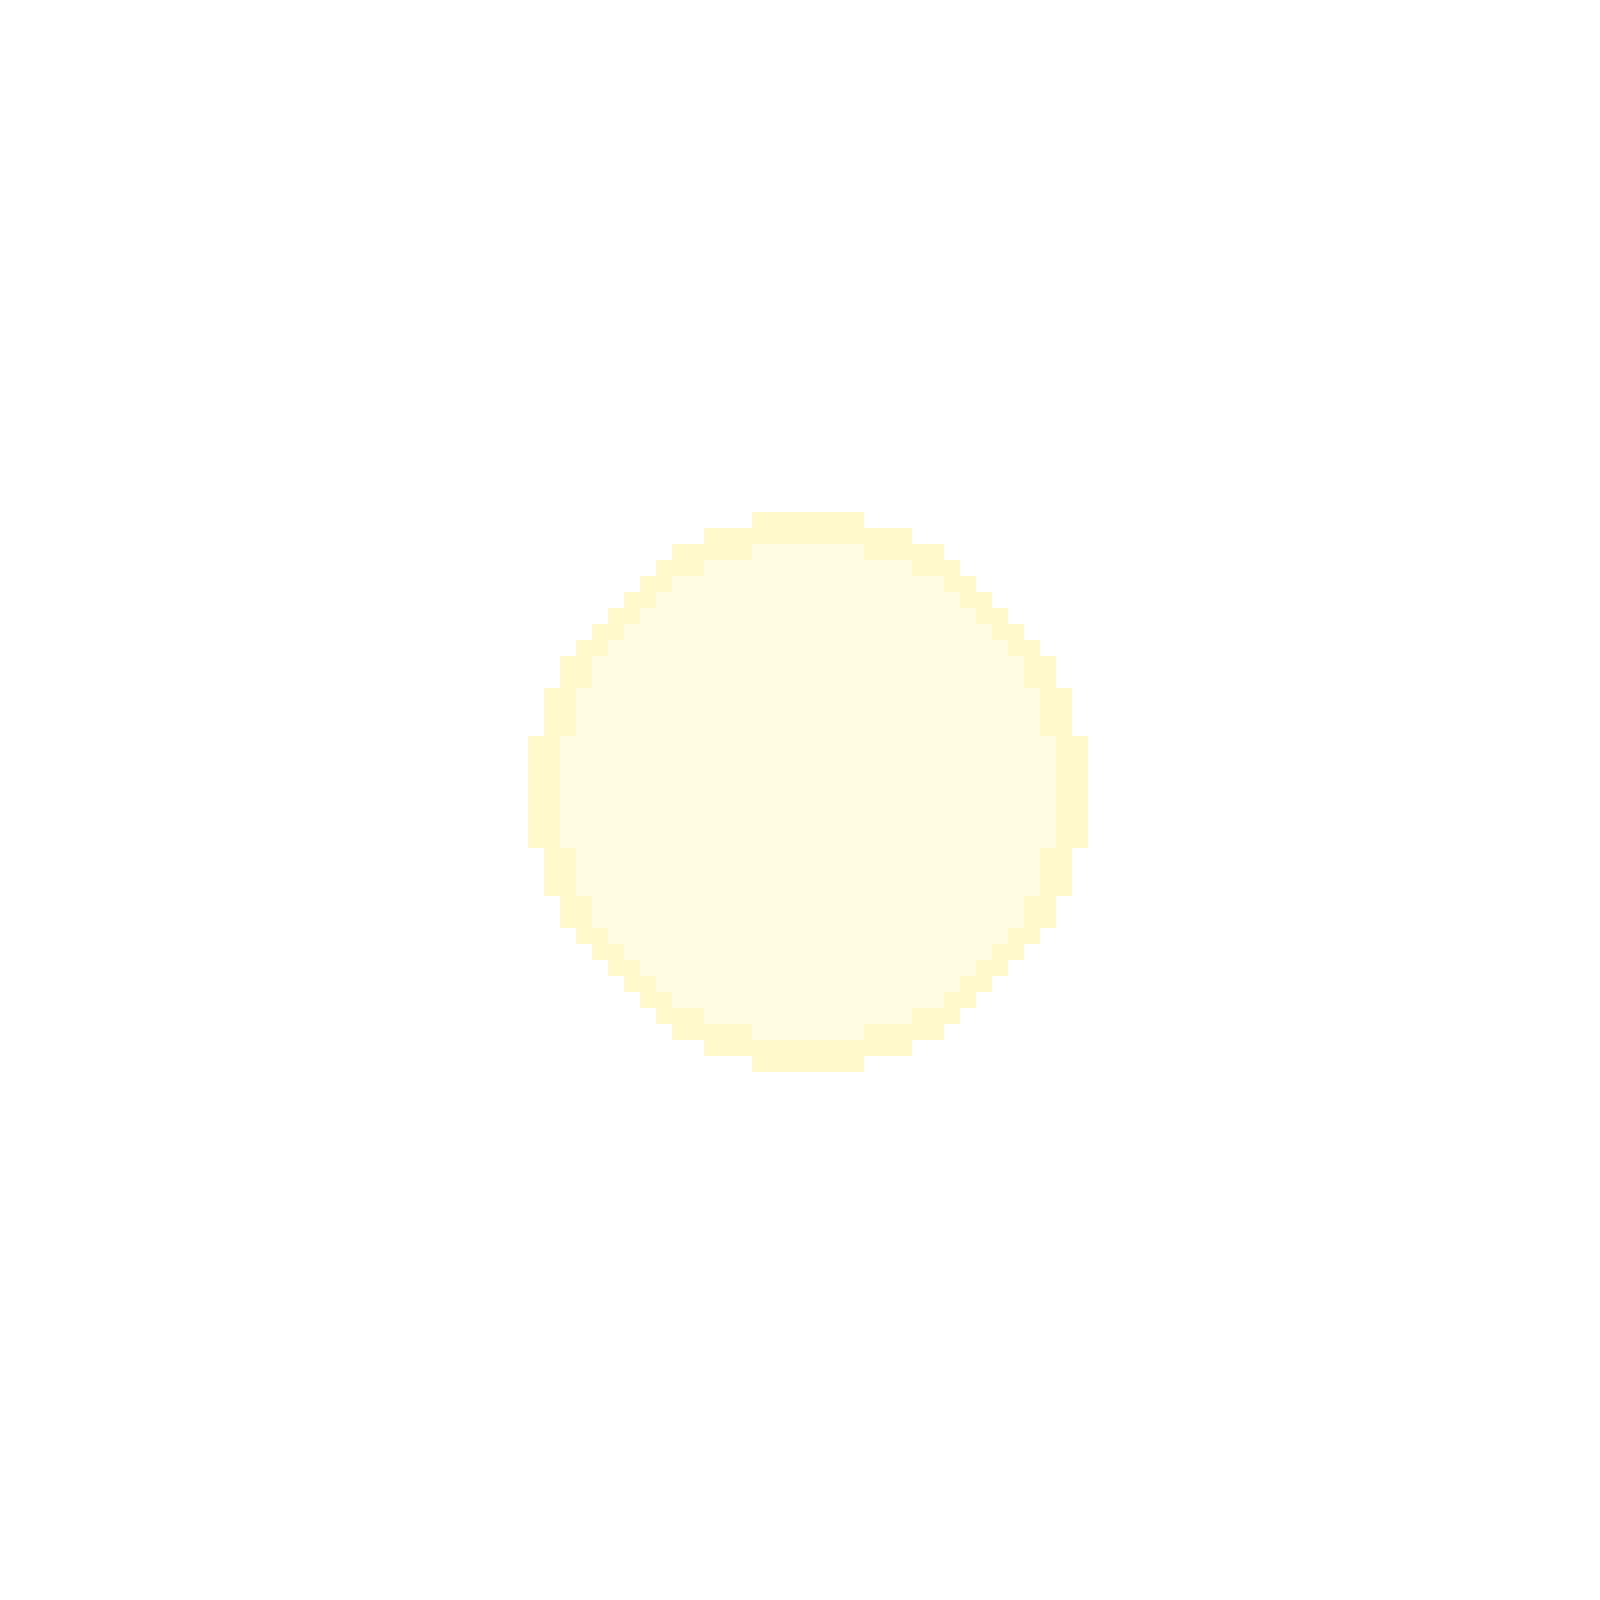
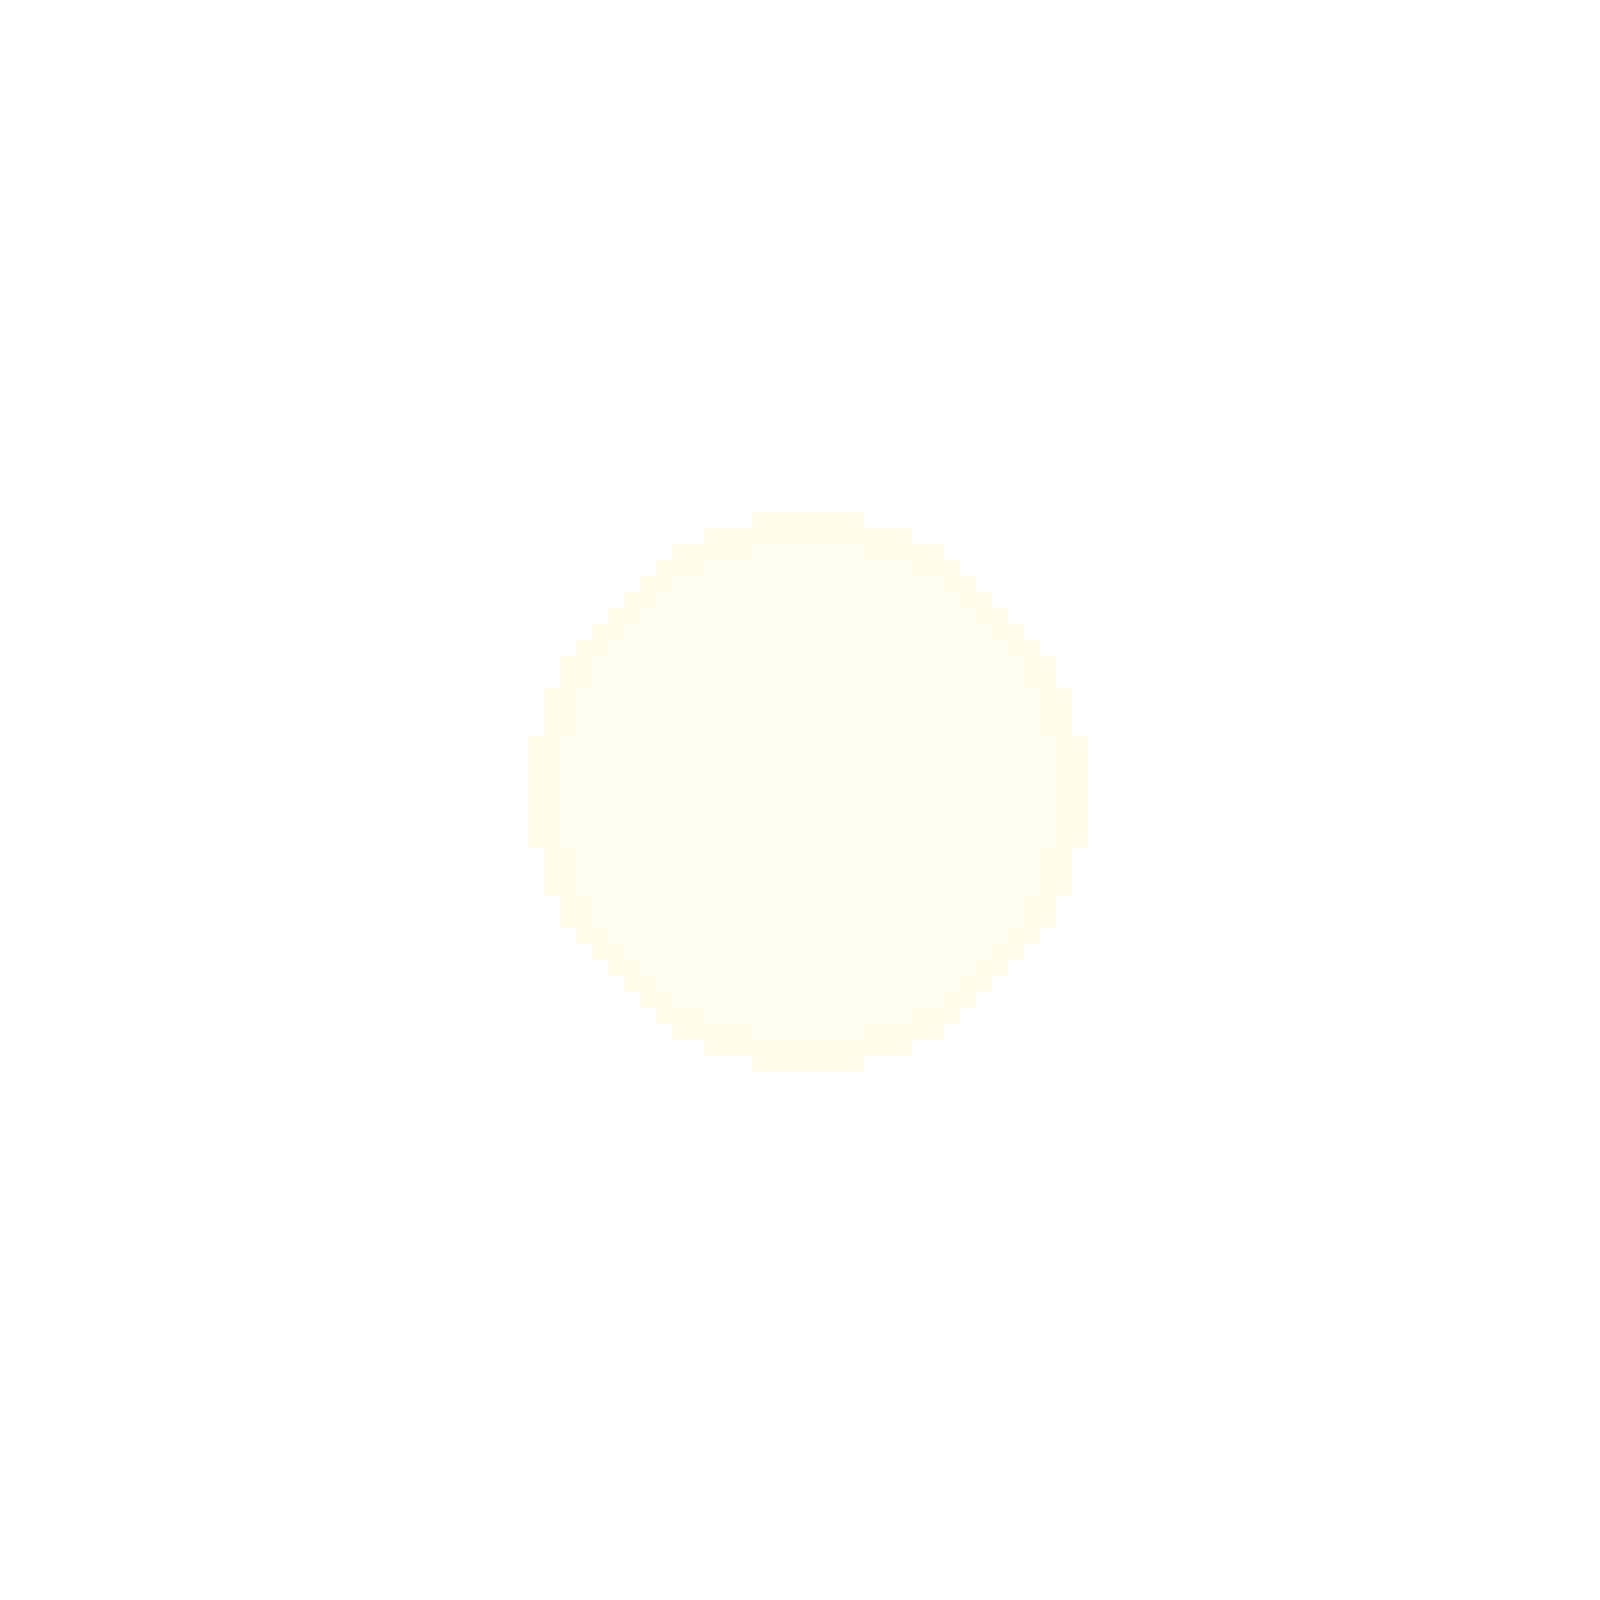
fiddled around with transparency

Changed region(s): [[0.3125, 0.3125, 0.6875, 0.6875]]

diff --git a/companion.py b/companion.py
@@ -24,7 +24,7 @@ from affects.honk_glow import HonkGlowBehavior
 
 running = True
 SCALE = 0.15  
-
+clear_surface = pygame.Surface((400, 400), pygame.SRCALPHA)
 
 # ===============================
 # LOAD FRAMES
@@ -144,7 +144,7 @@ def companion():
     clock = pygame.time.Clock()
     while running:
 
-        dt = clock.tick(60) / 1000
+        dt = clock.tick(36) / 1000
         
         for event in pygame.event.get():
             if event.type == pygame.QUIT:
@@ -155,14 +155,12 @@ def companion():
         win32gui.SetWindowPos(
             hwnd, win32con.HWND_TOPMOST, x, y-200, 0, 0, win32con.SWP_NOSIZE
         )
-
-        screen.fill((0, 0, 0))
+        screen.fill((0, 0, 0, 0))  # RGBA with alpha=0
         moth.update(dt, screen)
 
 
         pygame.display.update()
 
-        clock.tick(60)
 
     pygame.quit()
 

diff --git a/moth/controller.py b/moth/controller.py
@@ -1,6 +1,7 @@
 from moth.sprite import PixelSprite
 import win32gui, win32con, win32api
 import math
+import pygame
 
 class MothController:
     def __init__(self, moth, frame_index = 0, frame_speed = 0.22):
@@ -37,7 +38,6 @@ class MothController:
             for s in self.secondary_particles:
                 drift_x = s["base_x"] + math.sin(s["wave_offset"]) * s["amplitude"]
                 frame_img = self.current_affect.frames[int(s["frame"])].copy()
-                frame_img.set_alpha(s["alpha"])
                 screen.blit(frame_img, (drift_x, s["y"]))
         if self.current:
 

diff --git a/moth/sprite.py b/moth/sprite.py
@@ -18,6 +18,16 @@ class PixelSprite:
         if self.frame:
             screen.blit(self.frame, (self.x, self.y))
 
+    def fade_surface(self, sprite, alpha):
+        faded = sprite.copy()
+
+        # Directly scale alpha channel
+        arr = pygame.surfarray.pixels_alpha(faded)
+        arr[:] = alpha
+        del arr  # unlock the surface
+
+        return faded
+    
     def is_click_inside(self):
         """Pixel-perfect click detection."""
         if not self.frame or not self.mask:

diff --git a/affects/sleep_z.py b/affects/sleep_z.py
@@ -9,7 +9,7 @@ class SleepZBehavior(Behavior):
         if random.random() < 0.008 and len(self.moth.controller.secondary_particles) < 3:
             self.moth.controller.secondary_particles.append({
                     "base_x":  80,
-                    "y": 0,
+                    "y": 200,
                     "vy": -0.4,
                     "alpha": 255,
                     "frame": 0,
